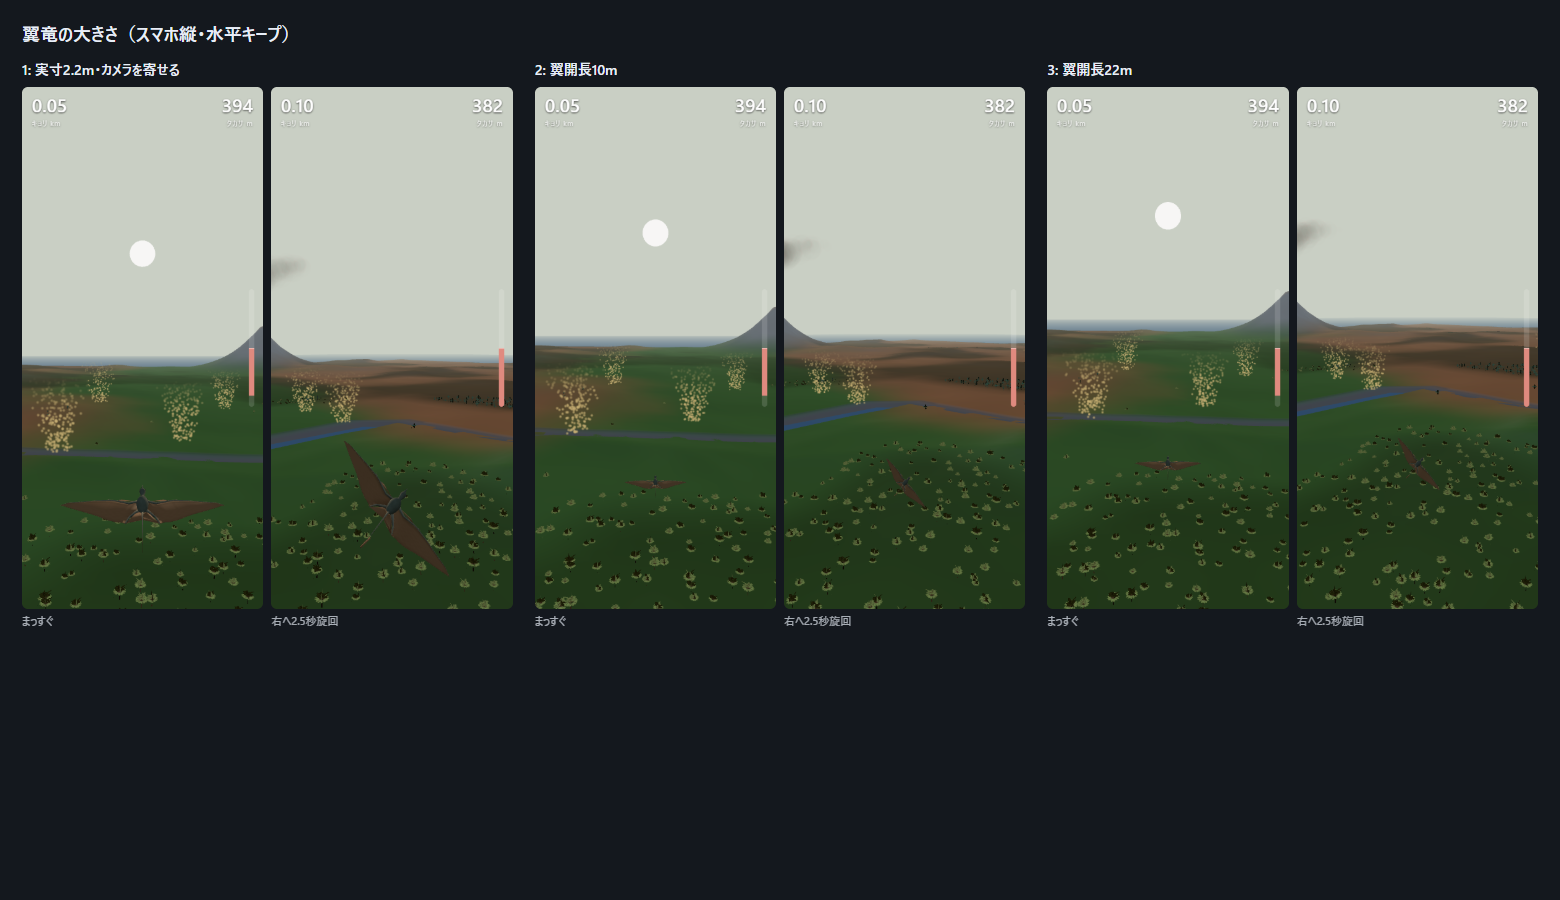
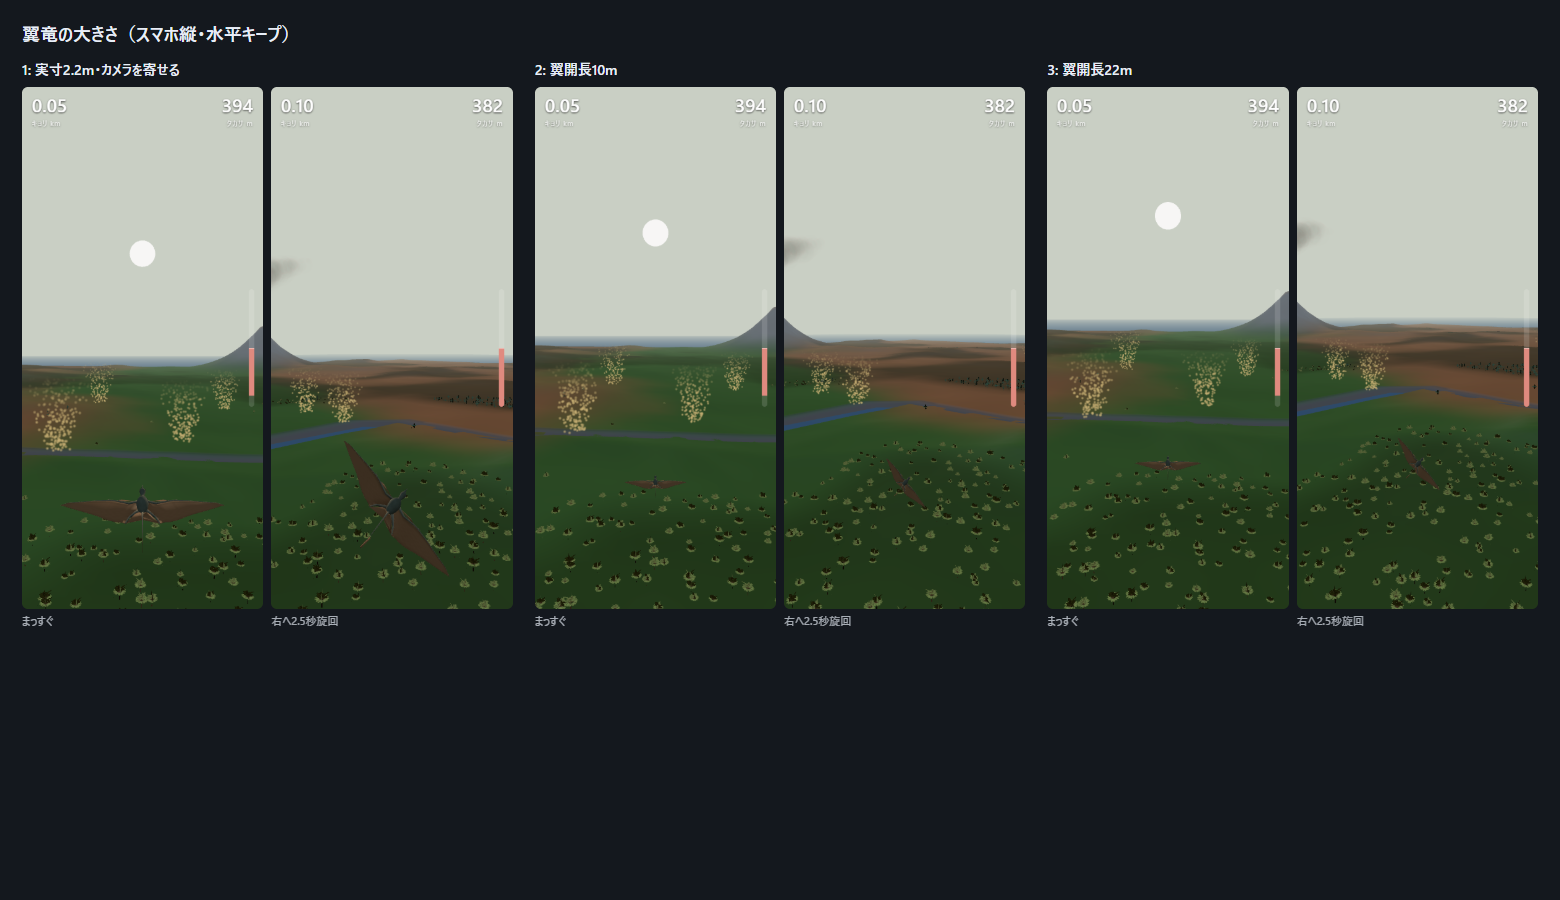
着地の動き: 減速しながら翼を畳んで四足で着地し、地上待機へ
- 地面に着いたら約2秒で減速しつつ Landing_Fold(6秒)、終わったら Ground_Idle
- 記録の表示を2.2秒遅らせて着地を見せる
- Landing_Fold はRootが前へ2.4m進むので、地上待機へ移るときに体だけを前へ送る
  (そのままだと後ろへ飛び戻って画面の下へ消えた)
- tools/check-landing.mjs: 動きの切り替わり・手足の接地・画面内・飛び戻りを検査

diff --git a/src/scene.js b/src/scene.js
@@ -468,7 +468,8 @@ function makeGlider() {
 
 export class View {
   constructor(el, terrain, field, cam = CAMS.a, size = SIZES[2]) {
-    this.cam = cam; this.size = size;
+    this.cam = cam; this.size = size; this.terrain = terrain;
+    this.landing = null;          // 着地の演出中の状態
     this.renderer = new THREE.WebGLRenderer({ antialias: true, powerPreference: 'high-performance' });
     this.renderer.setPixelRatio(Math.min(devicePixelRatio, 2));
     el.appendChild(this.renderer.domElement);
@@ -522,7 +523,30 @@ export class View {
       this.model = m;
       this.mixer = new THREE.AnimationMixer(m);
       this.clips = Object.fromEntries(gltf.animations.map(c => [c.name, c]));
-      if (this.clips.Glide_Loop) this.mixer.clipAction(this.clips.Glide_Loop).play();
+      this.act = {
+        glide: this.mixer.clipAction(this.clips.Glide_Loop),
+        land: this.mixer.clipAction(this.clips.Landing_Fold),
+        idle: this.mixer.clipAction(this.clips.Ground_Idle),
+      };
+      this.act.land.setLoop(THREE.LoopOnce, 1);
+      this.act.land.clampWhenFinished = true;
+      this.act.glide.play();
+      // 着地が終わったら地上待機へ
+      // 着地の動きはRootが前へ約2.4m進む。地上待機はRootが原点から始まるので、そのまま切り替えると後ろへ飛び戻って画面の下へ消えた
+      const rootTrack = this.clips.Landing_Fold.tracks.find(t => /^Root\.position$/.test(t.name));
+      this.rootTrackNames = this.clips.Landing_Fold.tracks.filter(t => /position/.test(t.name)).map(t => t.name).slice(0, 8);
+      this.landShift = 0;
+      if (rootTrack) {
+        const v = rootTrack.values, n = v.length;
+        this.landShift = Math.hypot(v[n - 3] - v[0], v[n - 1] - v[2]) * this.size.scale;
+      }
+      this.mixer.addEventListener('finished', e => {
+        if (e.action === this.act.land && this.landing) {
+          this.landing.shift = this.landShift;                // 進んだ分だけ機体の位置を前へ送ってから切り替える
+          this.act.land.stop();
+          this.act.idle.reset().play();
+        }
+      });
       this.modelReady = true;
     }, undefined, err => { console.error('翼竜の読み込みに失敗。灰色の箱のまま飛ぶ', err); });
   }
@@ -580,8 +604,33 @@ export class View {
     this.plumes.update(g.x, g.y, dt);
     this.dust.update(g.x, g.y, dt, sun);
     this.clouds.update(g.x, g.y, sun);
-    this.glider.position.set(SX * g.x, g.z, g.y);
-    this.glider.rotation.set(0, -g.head, g.bank, 'YXZ');
+    // ---- 着地 ----
+    // 地面に着いた瞬間は時速100km以上出ているので、その場で止めず2秒ほどで滑るように減速しながら着地の動きへ移る
+    let P = g;
+    if (!g.alive && this.model && this.act) {
+      if (!this.landing) {
+        this.landing = { t: 0, x: g.x, y: g.y, head: g.head, v: 32 };
+        this.act.land.reset().play();
+        this.act.glide.crossFadeTo(this.act.land, 0.35, false);
+      }
+      const L = this.landing, tau = 0.45;
+      L.t += dt;
+      const d = L.v * tau * (1 - Math.exp(-L.t / tau));
+      const lx = L.x + Math.sin(L.head) * d, ly = L.y + Math.cos(L.head) * d;
+      P = { x: lx, y: ly, z: this.terrain.height(lx, ly), head: L.head, bank: 0 };
+      this.glider.position.set(SX * P.x, P.z, P.y);
+      this.glider.rotation.set(0, -P.head, 0, 'YXZ');
+      this.model.position.y = 0;                              // 着地の動きは足元が原点。空中用の持ち上げを外す
+      this.model.position.z = L.shift || 0;                  // 地上待機に移ったら、着地で進んだ分だけ体だけを前へ(カメラは動かさない)
+    } else {
+      if (this.landing) {                                     // やり直したら空中の姿へ戻す
+        this.landing = null;
+        if (this.act) { this.act.land.stop(); this.act.idle.stop(); this.act.glide.reset().play(); }
+        if (this.model) { this.model.position.y = -0.35 * this.size.scale; this.model.position.z = 0; }
+      }
+      this.glider.position.set(SX * g.x, g.z, g.y);
+      this.glider.rotation.set(0, -g.head, g.bank, 'YXZ');
+    }
     // 夕暮れ。時計ではなく空の色で残り時間が分かる
     const day = new THREE.Color(0xc9cfc4), dusk = new THREE.Color(0xd98a5a), night = new THREE.Color(0x2b3348);
     const sky = sun > 0.35
@@ -613,8 +662,9 @@ export class View {
     while (e < -Math.PI) e += 2 * Math.PI;
     this.camHead += e * (1 - Math.exp(-dt / C.yawTau));
     const ch = this.camHead;
-    this.camera.position.set(SX * (g.x - Math.sin(ch) * C.back * k), g.z + C.up * k, g.y - Math.cos(ch) * C.back * k);
-    this.camera.lookAt(SX * (g.x + Math.sin(ch) * C.ahead), g.z + (C.look + 12 * tall) * k, g.y + Math.cos(ch) * C.ahead);
+    const camZ = P === g ? g.z : P.z + 2;
+    this.camera.position.set(SX * (P.x - Math.sin(ch) * C.back * k), camZ + C.up * k, P.y - Math.cos(ch) * C.back * k);
+    this.camera.lookAt(SX * (P.x + Math.sin(ch) * C.ahead), camZ + (C.look + 12 * tall) * k, P.y + Math.cos(ch) * C.ahead);
     // 右に傾いたらカメラも右に傾く(rotation.z は負が右)。直す前はここの符号が逆だった
     this.camera.rotation.z -= g.bank * C.roll;
     this.renderer.render(this.scene, this.camera);

diff --git a/src/main.js b/src/main.js
@@ -99,7 +99,9 @@ function finish() {
   ui.msgTitle.textContent = (glider.best / 1000).toFixed(2) + ' km';
   ui.msgSub.textContent = sunlight(glider.time) <= 0.02
     ? '日が暮れて、空気が上がらなくなった' : '降りた。もう一度: R キー / 画面を二回たたく';
-  ui.msg.classList.remove('hidden');
+  // 着地の動きを見せてから記録を出す(やり直しはすぐ効く)
+  const shownFor = glider;
+  setTimeout(() => { if (ended && glider === shownFor) ui.msg.classList.remove('hidden'); }, 2200);
 }
 
 function reset() {
@@ -190,6 +192,9 @@ window.__slice = {
   ridgeAt(x, y, z) { return field.ridgeAt(x, y, z, sunlight(glider.time)); },
   terrainHeight(x, y) { return terrain.height(x, y); },
   riverX(y) { return terrain.riverX(y); },
+  landing: () => view.landing && view.act ? { t: view.landing.t, shift: view.landShift, tracks: view.rootTrackNames, land: view.act.land.isRunning(), idle: view.act.idle.isRunning(), glide: view.act.glide.isRunning(),
+    groundY: terrain.height(view.landing.x, view.landing.y), bones: ['Head', 'HandL', 'HandR', 'FootL', 'FootR'].map(n => view.boneInfo(n)) } : null,
+  boneY: name => { const o = view.model && view.model.getObjectByName(name); if (!o) return null; const v = o.getWorldPosition(new o.position.constructor()); return v.y; },
   forceInput: null,
   _view() { return { camHead: view.camHead, dust: view.dust.points, clouds: view.clouds.points,
                      local: (x, y, z) => view.projectLocal(x, y, z),

diff --git a/docs/FINDINGS.md b/docs/FINDINGS.md
@@ -237,3 +237,10 @@ Astraに山を頼む前に、使える寸法を決めるための試作。
 - 対策: ページ全体で選択と長押しメニューを止めた（CSS＋contextmenu/selectstart）。tools/check-noselect.mjs を run-checks に追加
 
 **検査環境の罠**: 同じブラウザで2ページ目を開くと読み込みが止まることがある（実際の起動は0.6秒）。check-frame は大きさごとに新しいブラウザで開くようにした
+
+## 着地の動き（2026-09-17）
+
+- 地面に着いたら、時速115kmから約2秒で滑るように減速しながら RH02 の Landing_Fold（6秒）へ移り、終わったら Ground_Idle へ
+- 記録の表示は2.2秒遅らせて、着地の動きを見せる（やり直しはすぐ効く）
+- 途中の失敗: Landing_Fold は Root が前へ2.4m進むが、Ground_Idle は Root が原点から始まる。そのまま切り替えると**後ろへ2.4m飛び戻って画面の下へ消えた**。高さだけの検査では気づけなかった → 画面内にいるか・カメラからの距離が跳ねないかを検査に追加
+- 位置を前へ送る直し方で、カメラまで一緒に前へ動いてしまい効かなかった → 体(モデル)だけを前へ送る
